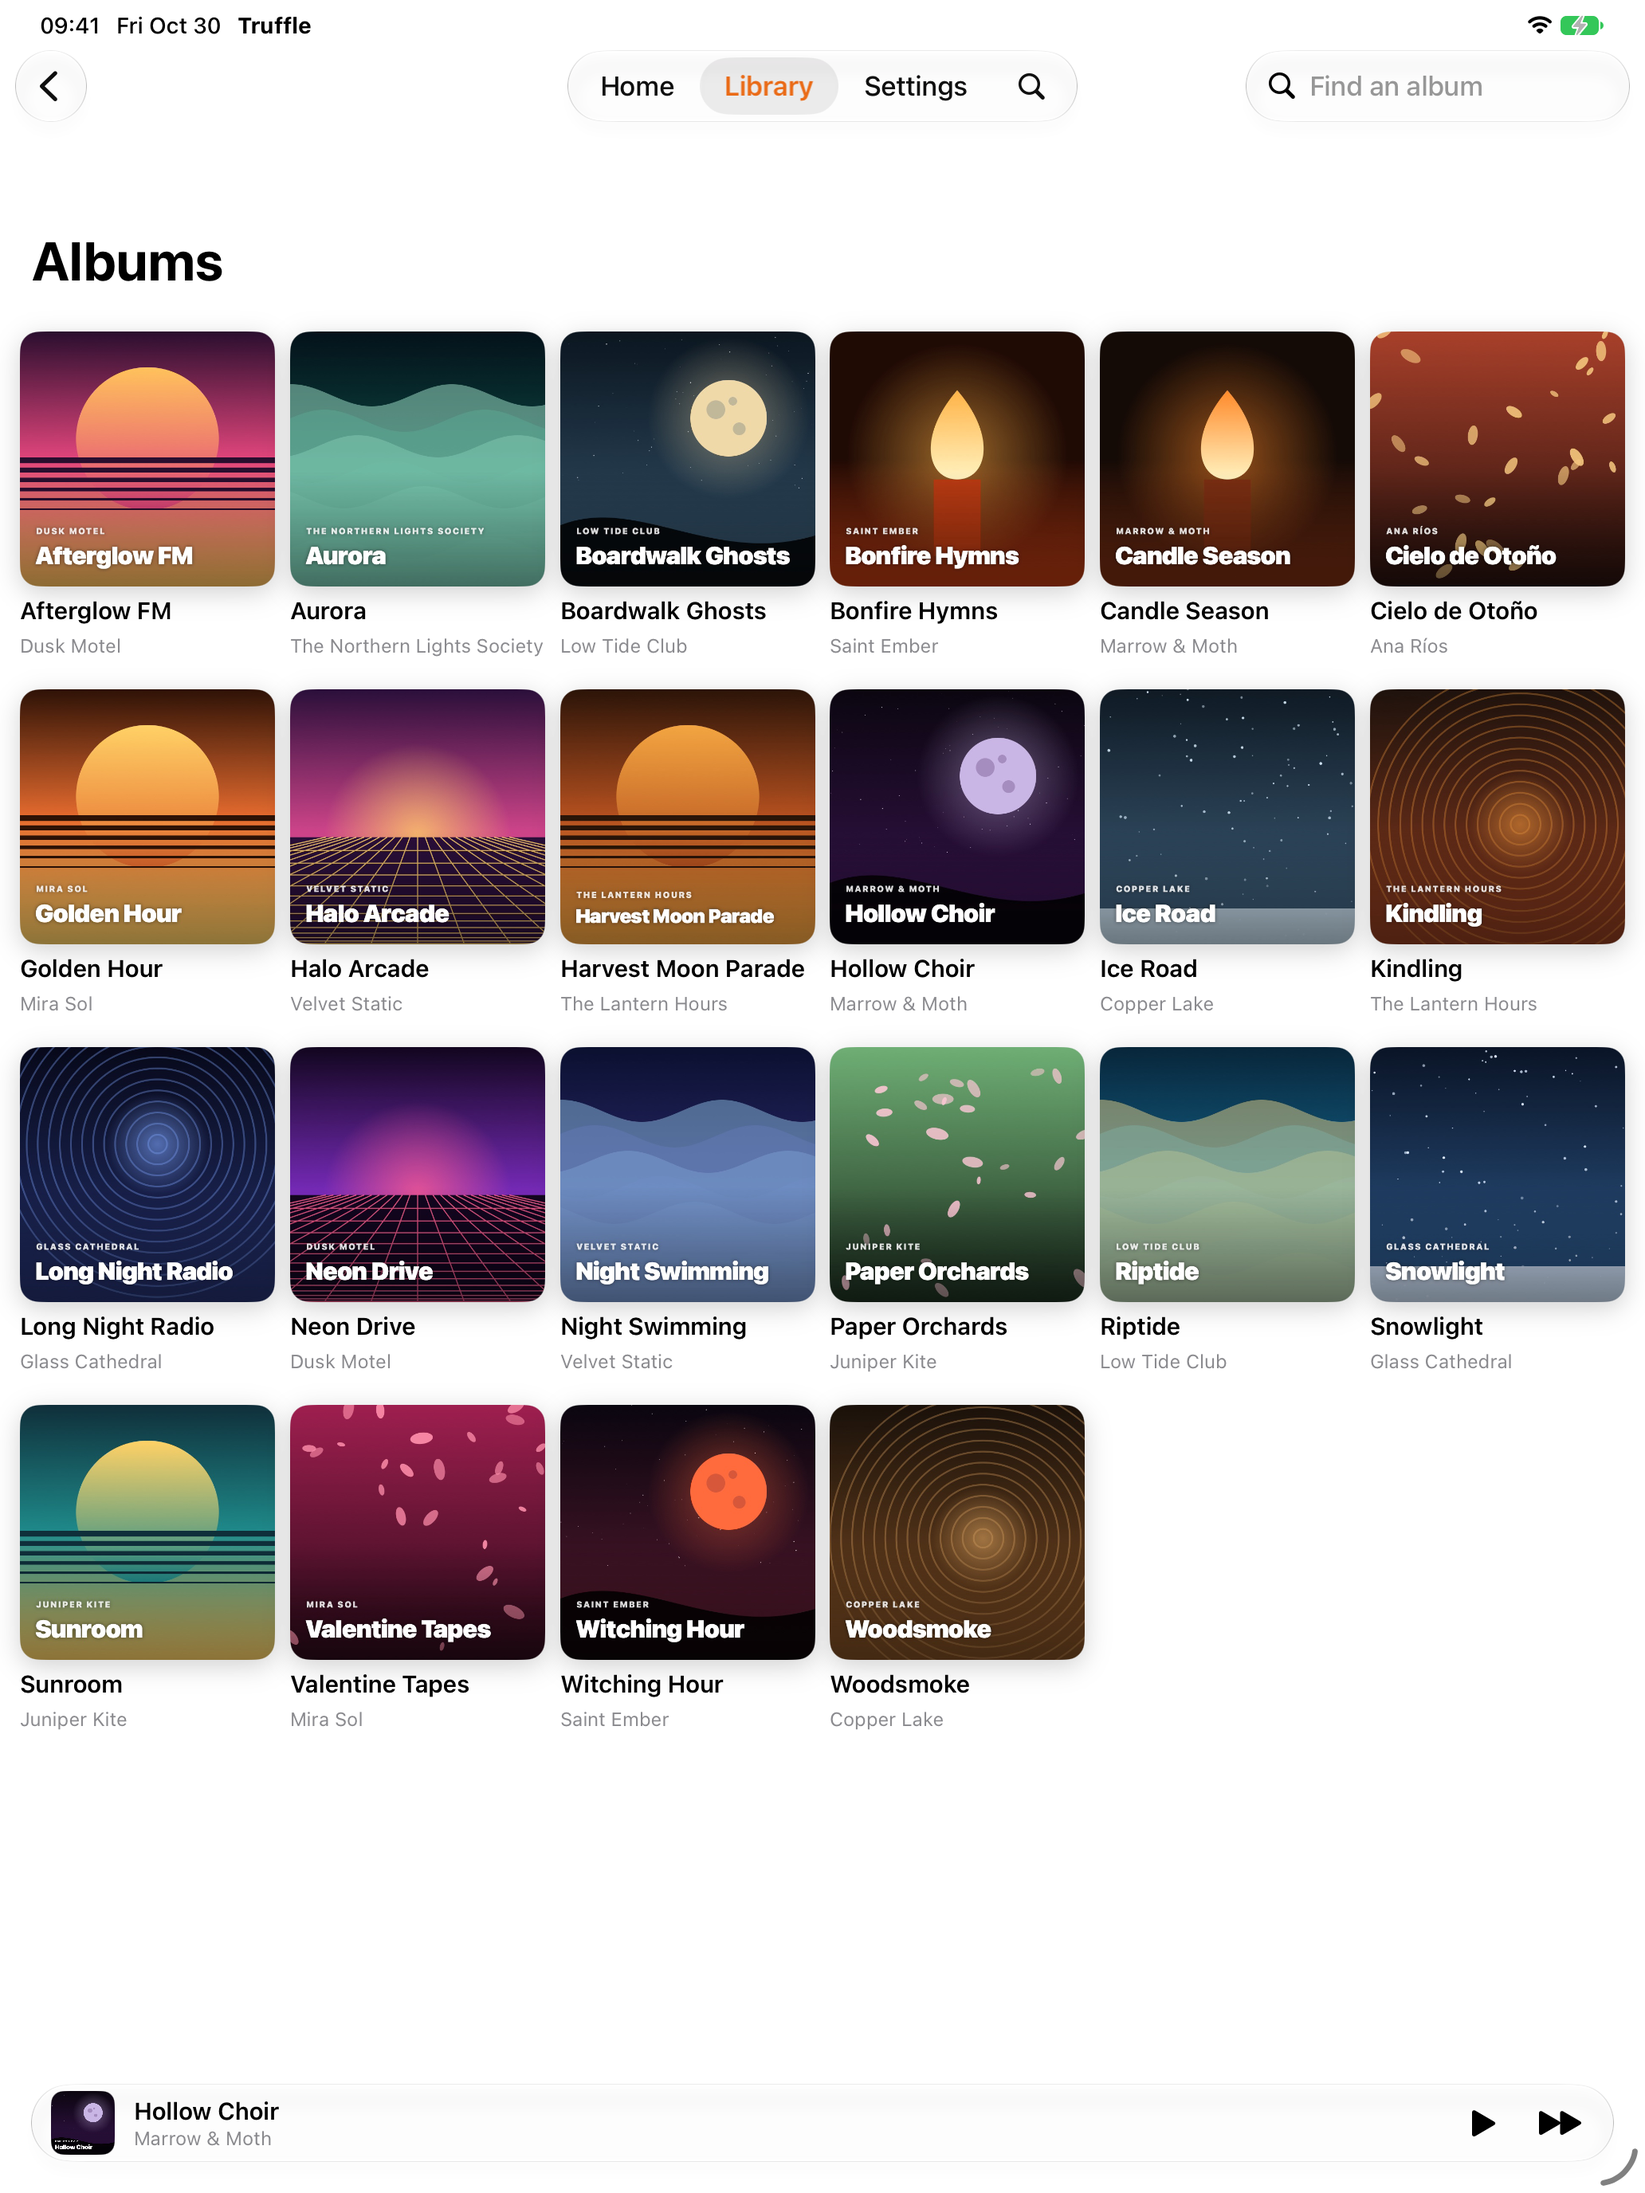
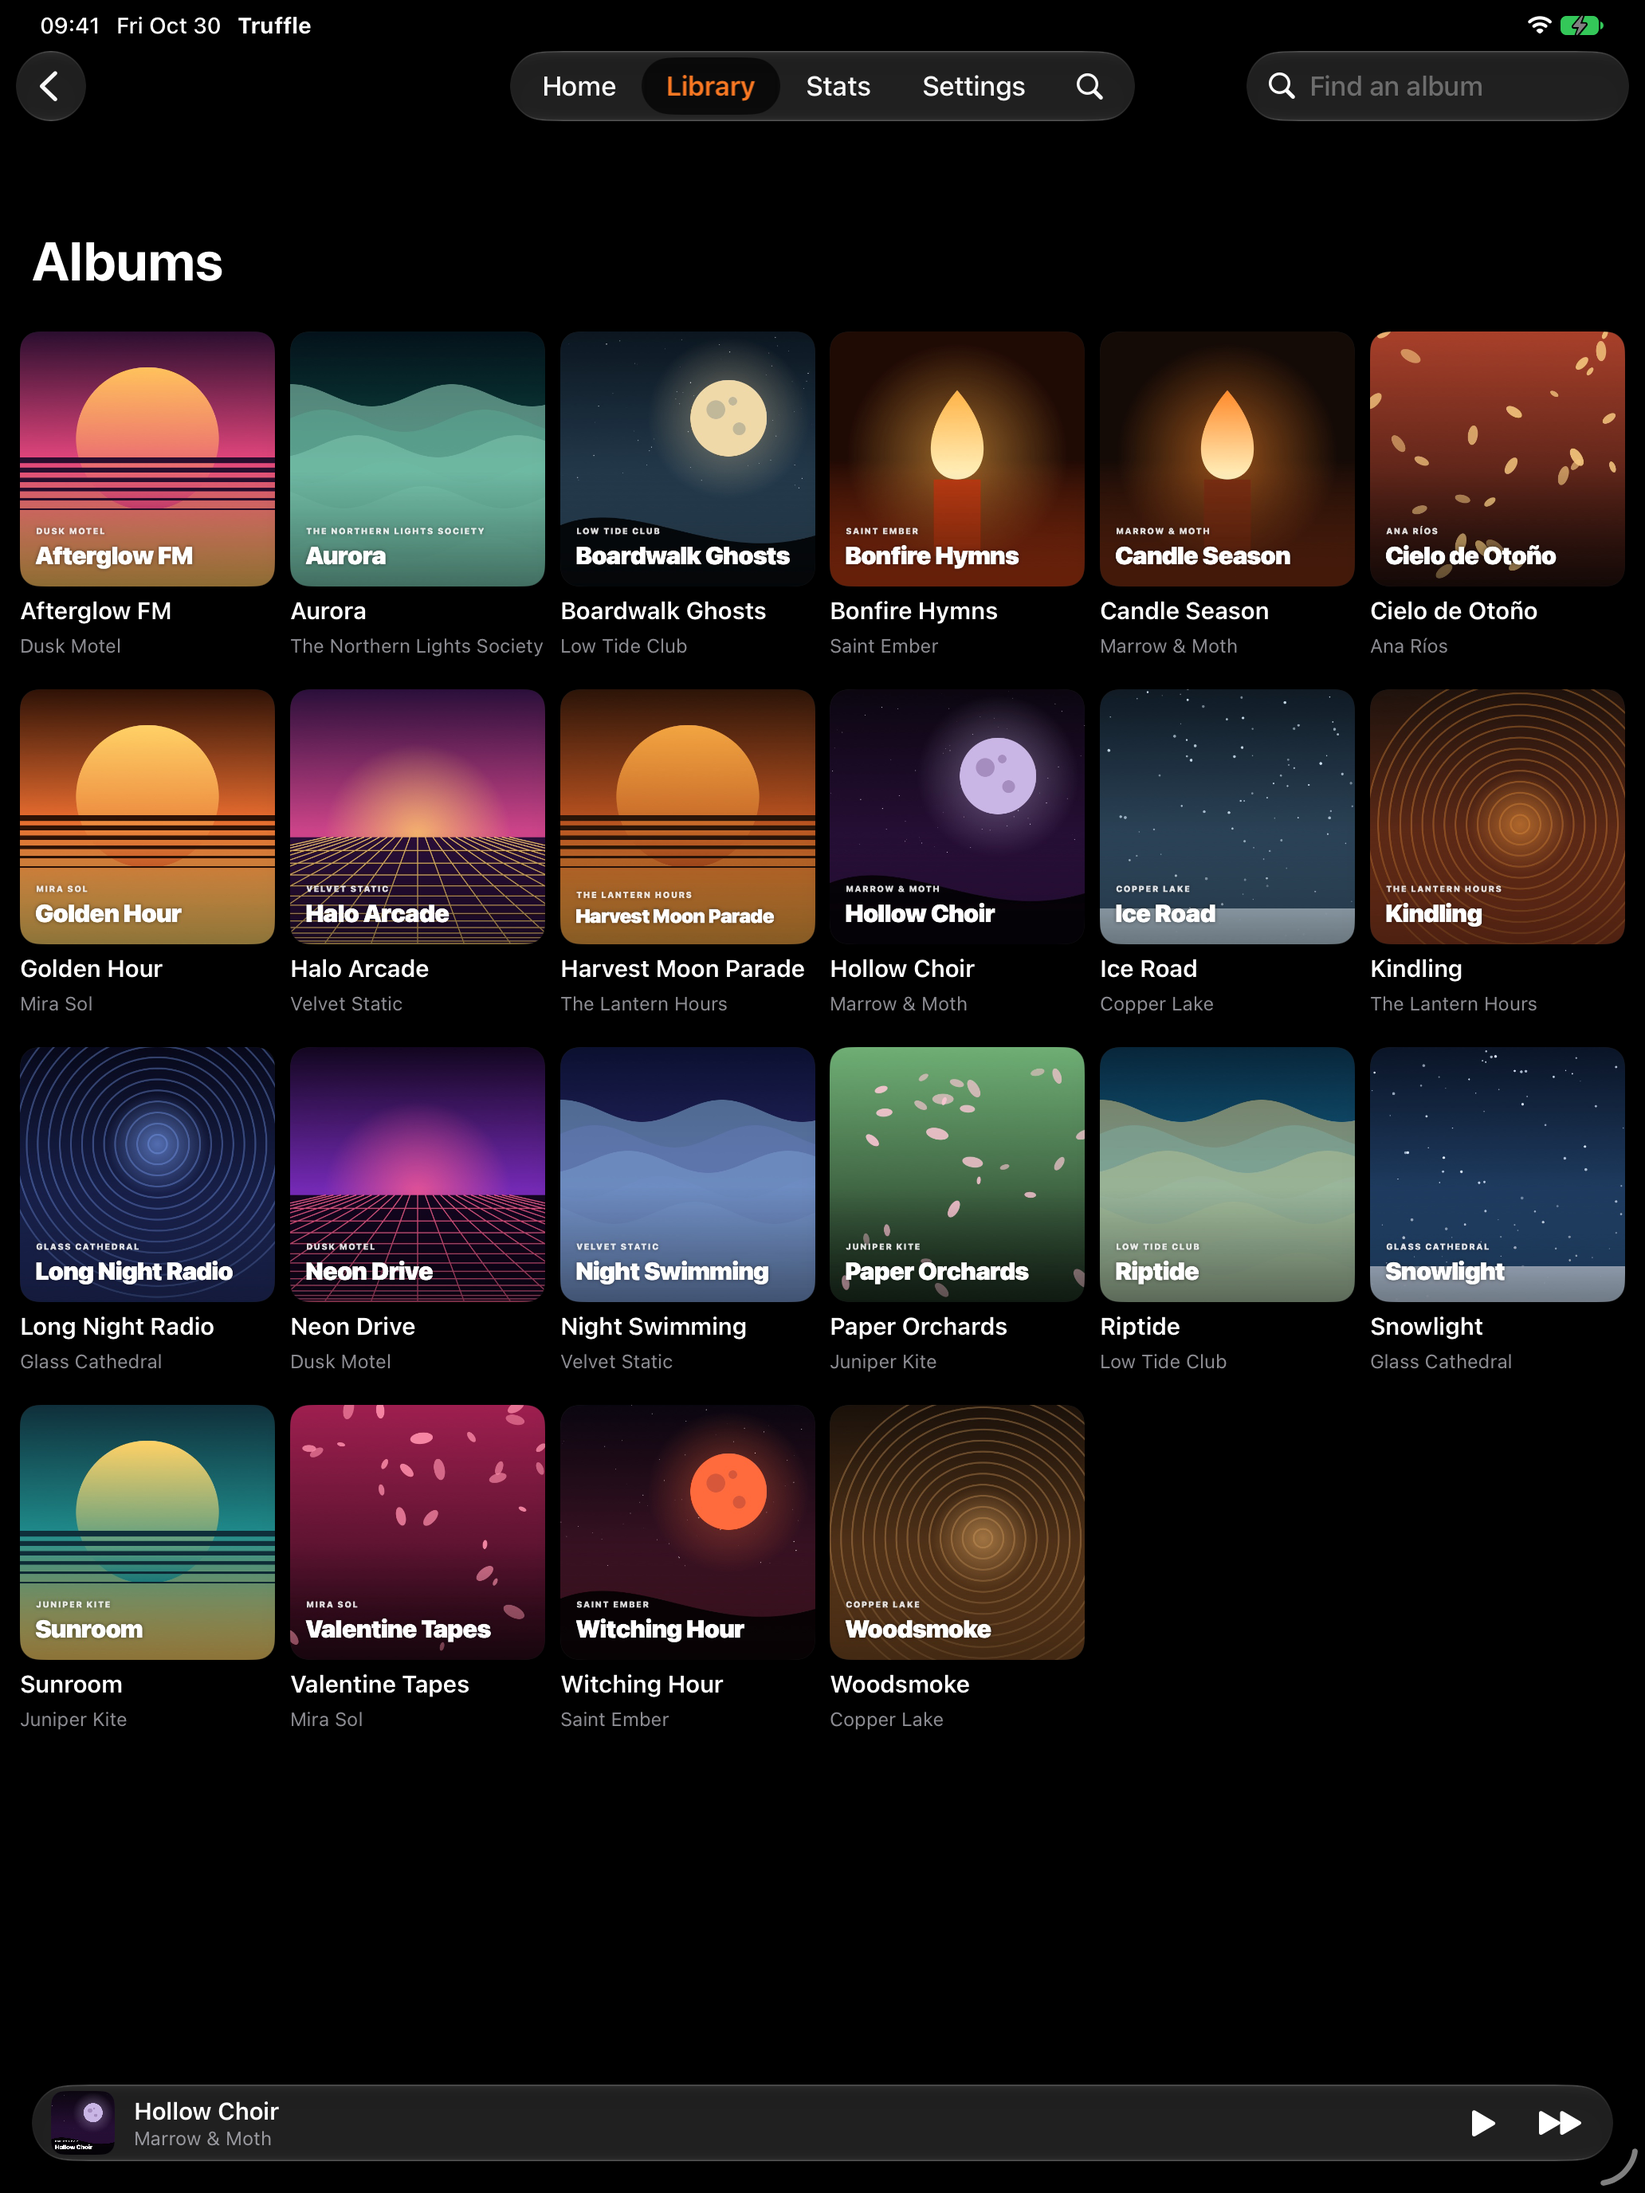
Dark-mode store screenshots, with Stats; the README and listing mention the new bits
Six iPhone and five iPad App Store images, captured in dark mode from the in-app demo (the record
icon, Recently Played and the Stats tab included). The README shows Home, Stats and the player.

Claude-Session: https://claude.ai/code/session_01DYwcmyEs2CjfwbrKAQyyY7

diff --git a/scripts/appstore.py b/scripts/appstore.py
@@ -54,8 +54,11 @@ Truffle plays your files straight from your server, at even volume. Leave home W
 DRESSED UP FOR THE SEASON
 Colors, falling leaves and an app icon that change with the seasons.
 
+PROOF YOU HAVE GREAT TASTE
+Stats from your Plex history: plays, listening time, streaks, your most-played artists, albums and songs, and the ones you haven't heard in a while.
+
 ALL THE USUAL GOOD STUFF
-Playlists, likes, artists, albums, search, a queue you can reorder, AirPlay, and lock screen and steering-wheel controls.
+Playlists, likes, artists, albums, search, Recently Added and Recently Played, a queue you can reorder, AirPlay, and lock screen and steering-wheel controls.
 
 Needs a Plex account and a Plex Media Server with music. Free and open source. No ads, no tracking, no rating nags.
 Source code: github.com/vanities/truffle""",

diff --git a/README.md b/README.md
@@ -7,7 +7,7 @@ No Plex server handy? Tap **Take it for a spin** on the sign-in screen to try it
 
 > Bundle ID `com.vanities.truffle`. GPL-3.0. Website: https://am2.biz/truffle · [Support](https://am2.biz/truffle/support) · [Privacy](https://am2.biz/truffle/privacy)
 
-<p align="center"><img src="docs/images/home.png" width="260" alt="Truffle's home screen in October"> <img src="docs/images/player.png" width="260" alt="The player"></p>
+<p align="center"><img src="docs/images/home.png" width="250" alt="Truffle's home screen in October"> <img src="docs/images/stats.png" width="250" alt="Stats: plays, listening time and streaks"> <img src="docs/images/player.png" width="250" alt="The player"></p>
 
 ## What it does
 
@@ -23,7 +23,10 @@ No Plex server handy? Tap **Take it for a spin** on the sign-in screen to try it
   Plex playlist. Truffle plays it for that season's card.
 - **Your files as they are,** FLAC included, straight from your server, at even volume from Plex's
   loudness analysis. It hops to your server's public address when you drive away from home Wi-Fi.
-- Playlists, likes, artists, albums and search, all kept in Plex. Seasonal app icons, too.
+- **Stats that prove you have great taste:** plays, listening time, streaks, your most-played artists,
+  albums and songs, and the ones you haven't heard in a while, all from your Plex history.
+- Playlists, likes, artists, albums, search, Recently Added and Recently Played, all kept in Plex.
+  Seasonal app icons, too.
 
 ## Building
 
